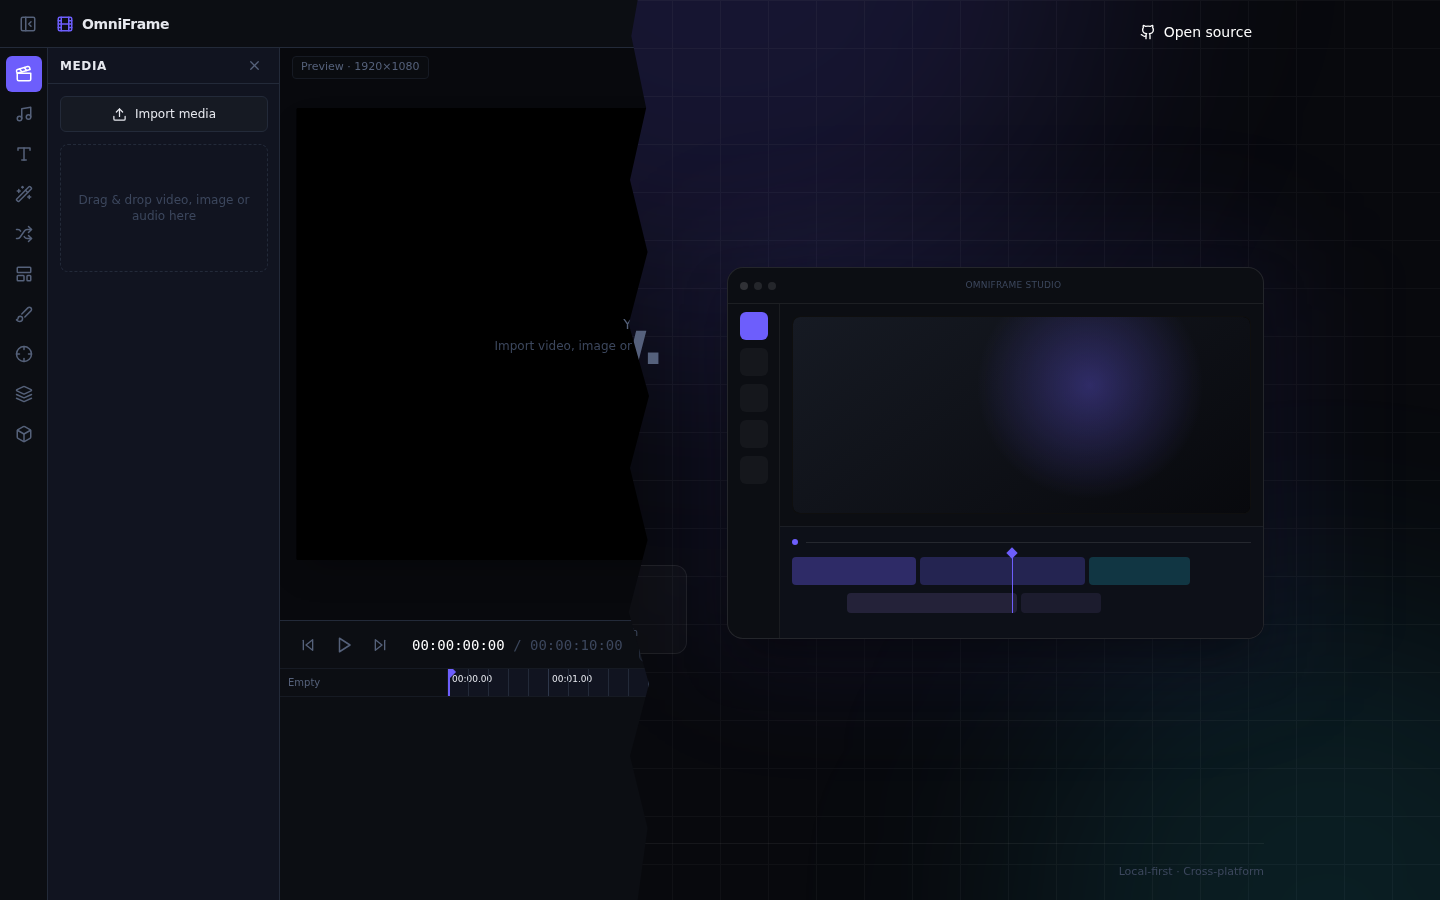
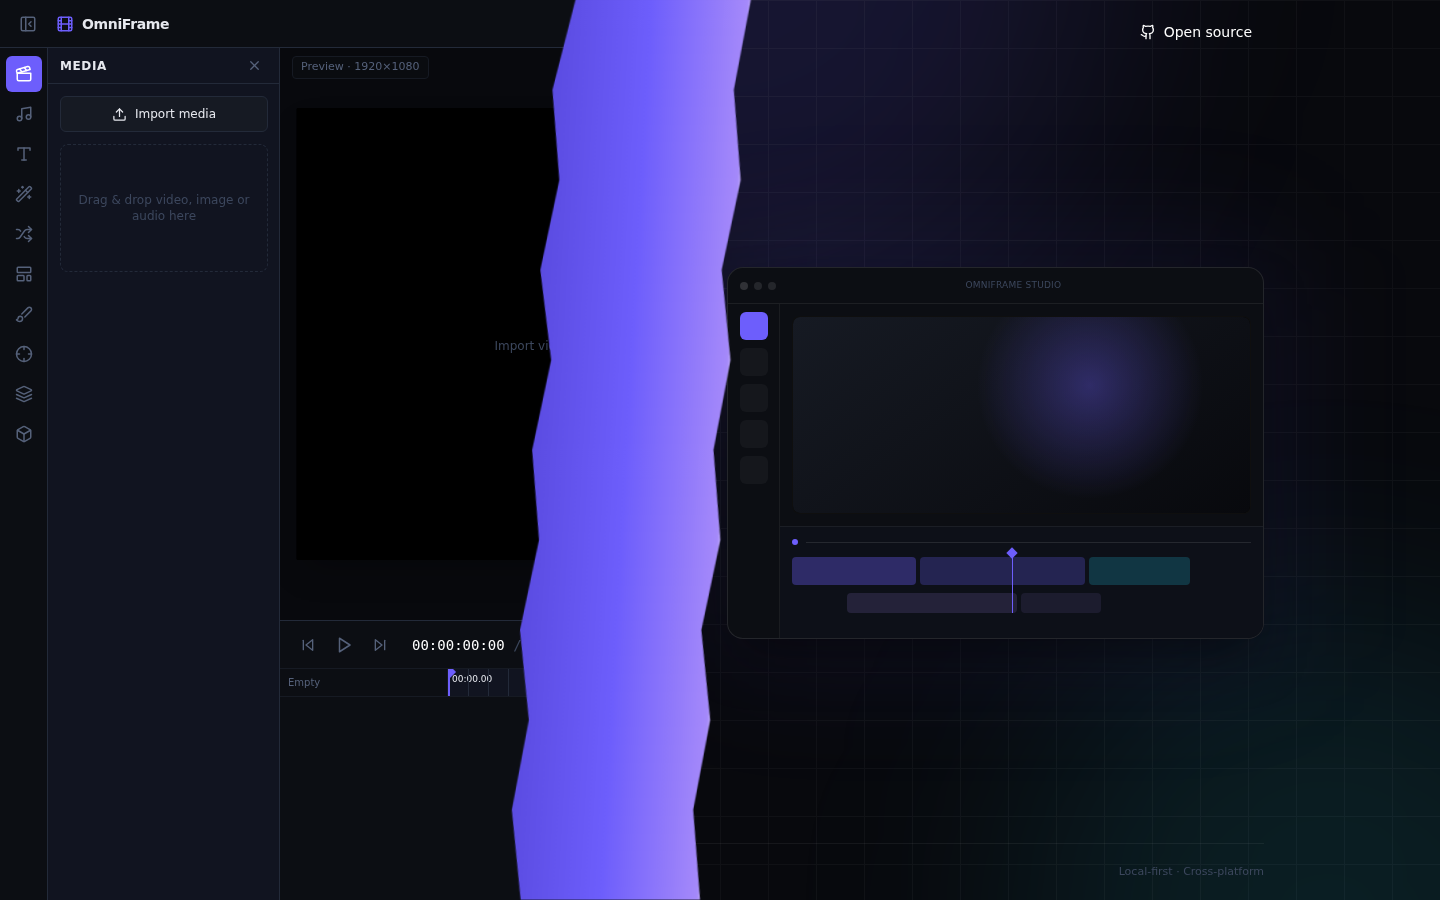
Restore branded wave to masked Studio reveal

Changed region(s): [[0.3438, 0.0, 0.5312, 1.0]]

diff --git a/src/index.css b/src/index.css
@@ -86,6 +86,17 @@ body {
   animation: of-landing-mask-out 0.68s cubic-bezier(.4,0,.2,1) both;
 }
 
+@keyframes of-transition-wave-move {
+  0% { left: -14vw; transform: skewX(-5deg) scaleX(.9); }
+  48% { left: 43vw; transform: skewX(-3deg) scaleX(1); }
+  100% { left: 106vw; transform: skewX(-5deg) scaleX(.9); }
+}
+.of-transition-wave {
+  animation: of-transition-wave-move 0.68s cubic-bezier(.4,0,.2,1) both;
+  clip-path: polygon(12% 0, 100% 0, 94% 10%, 100% 20%, 93% 30%, 100% 40%, 94% 50%, 100% 60%, 93% 70%, 100% 80%, 94% 90%, 100% 100%, 10% 100%, 3% 90%, 9% 80%, 2% 70%, 9% 60%, 3% 50%, 10% 40%, 2% 30%, 9% 20%, 3% 10%);
+  will-change: left, transform;
+}
+
 @media (prefers-reduced-motion: reduce) {
   *, *::before, *::after { scroll-behavior: auto !important; animation-duration: 0.01ms !important; animation-iteration-count: 1 !important; transition-duration: 0.01ms !important; }
 }

diff --git a/src/App.tsx b/src/App.tsx
@@ -46,6 +46,12 @@ export default function App() {
           <Landing onEnter={openStudio} />
         </div>
       )}
+      {transitioning && (
+        <div data-testid="transition-wave" className="pointer-events-none absolute inset-y-0 left-0 z-30 w-[14vw] min-w-24 of-transition-wave" aria-hidden="true">
+          <div className="absolute inset-0 bg-gradient-to-r from-brand-600 via-brand to-violet-400 shadow-[0_0_70px_rgba(109,94,252,.45)]" />
+          <div className="absolute inset-y-0 right-[-2px] w-1 bg-white/25 blur-[1px]" />
+        </div>
+      )}
     </div>
   )
 }

diff --git a/MEMORY.md b/MEMORY.md
@@ -4773,3 +4773,14 @@ This addendum supersedes earlier `NOT-TESTED` backlog rows where the same named 
 - [SCREENSHOT] PASS Combined-scene evidence is `qa/screenshots/landing-transition.png`.
 - [OBSERVED] PASS Studio remained mounted after the mask completed and the route changed to `#studio`.
 - [OBSERVED] PASS Landing transition suite completed 19 assertions with zero runtime errors and zero failed requests.
+
+# Restored branded wave over combined scene transition — 2026-09-21
+
+- [USER-CORRECTION] The original purple sweep was intended to remain; only its masking behavior needed improvement.
+- [SOURCE-CODE] PASS Restored a broad branded violet wave band as the visible transition edge.
+- [SOURCE-CODE] PASS The wave is layered above both scenes while Landing remains clipped ahead and live Studio remains revealed behind.
+- [SOURCE-CODE] PASS The band and landing mask share the same 680ms easing and traverse the viewport together.
+- [SOURCE-CODE] PASS Both sides of the violet band use alternating polygon points, preserving the energetic original motion without reverting to an opaque full-screen sheet.
+- [SCREENSHOT] PASS `qa/screenshots/landing-transition.png` shows Studio on the revealed left, Landing on the unreached right, and the violet wave between them.
+- [OBSERVED] PASS At 220ms the branded wave was visible, positioned inside the viewport, and the live Studio was already mounted below the completed mask region.
+- [OBSERVED] PASS Landing suite completed 21 assertions with zero runtime errors and zero failed requests.
